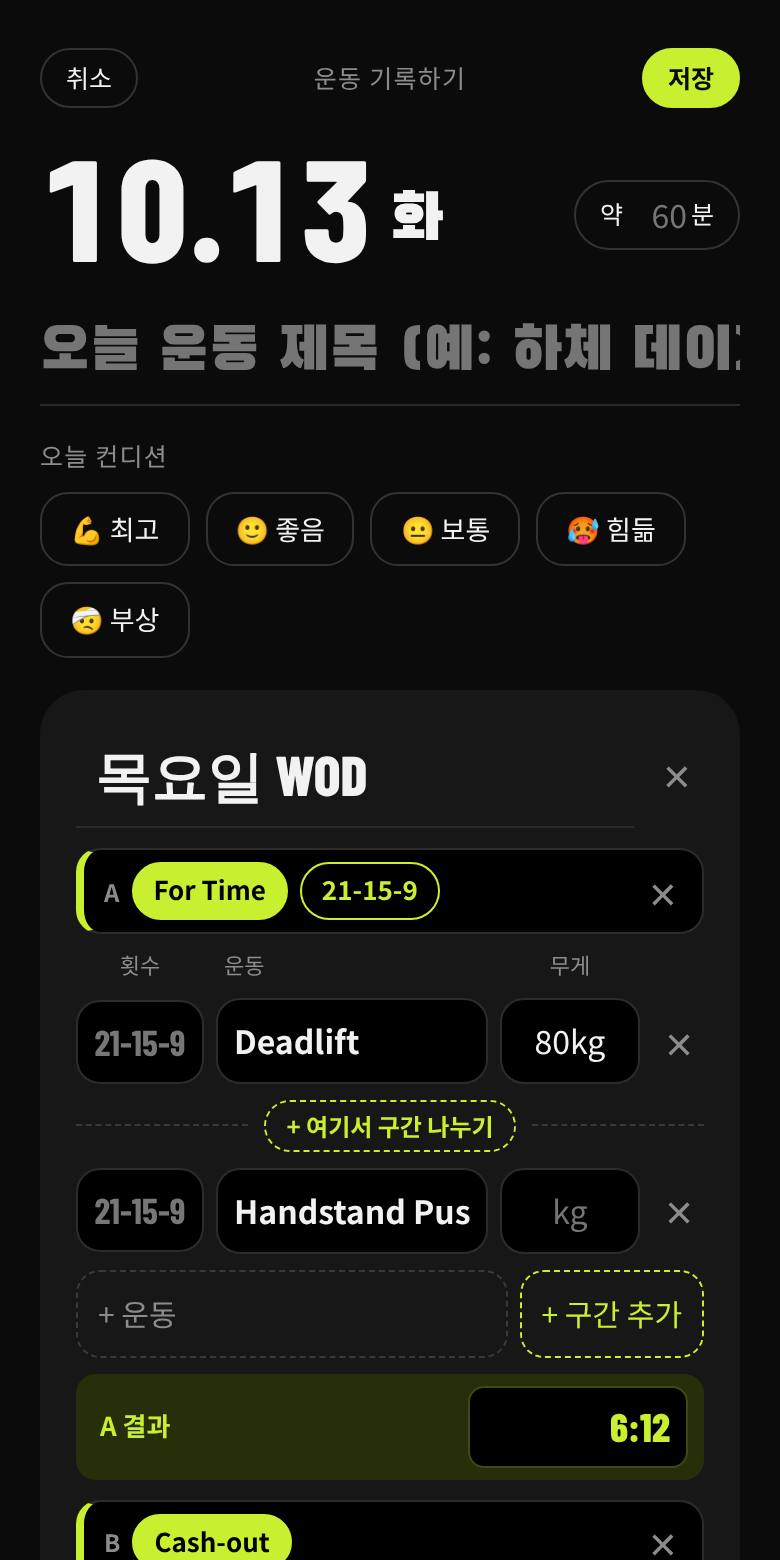
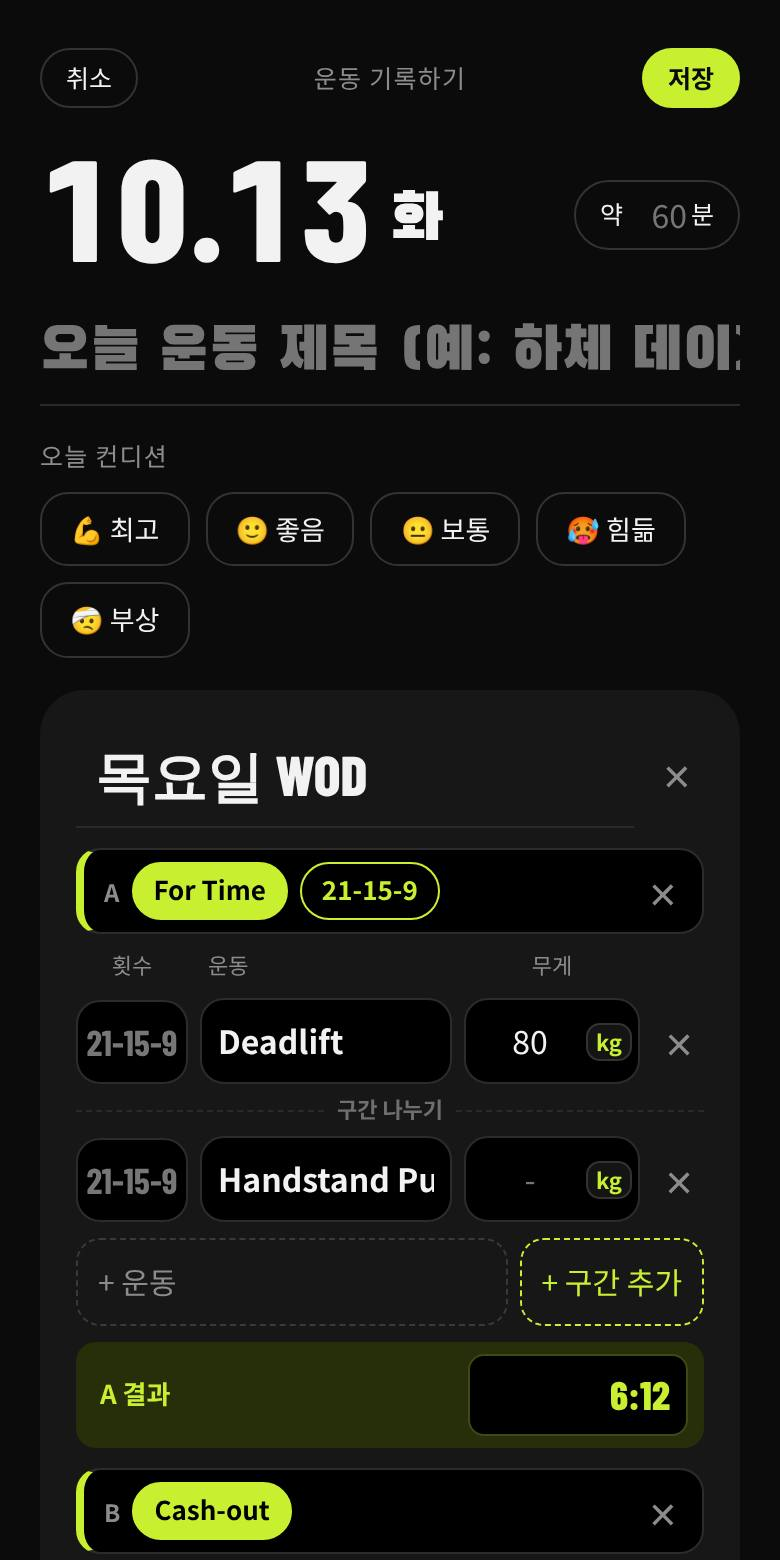
Per-exercise kg/lb switch in WOD rows
Claude-Session: https://claude.ai/code/session_019eoxjeUYsC1xCLQy9vy9QX

Changed region(s): [[0.0923, 0.6154, 0.9231, 1.0], [0.0923, 0.6154, 0.4615, 0.6769]]

diff --git a/index.html b/index.html
@@ -193,12 +193,15 @@ textarea.inp{resize:vertical;min-height:70px;line-height:1.6}
 .fdiv{display:flex;align-items:center;gap:6px;background:#000;border:1px solid #2c2c2c;border-left:4px solid var(--lime);border-radius:12px;padding:6px 6px 6px 10px}
 .fdiv .c2{padding:4px 10px;font-size:13px}
 .fdiv .t{font-size:12px;color:var(--mut);font-weight:700}
-.mv{display:grid;grid-template-columns:64px minmax(0,1fr) 70px 26px;gap:6px;align-items:center}
+.mv{display:grid;grid-template-columns:56px minmax(0,1fr) 88px 26px;gap:6px;align-items:center}
 .mv input{background:#000;border:1px solid #2c2c2c;border-radius:12px;padding:9px 8px;font-size:16px;width:100%;min-width:0;color:var(--ink)}
 .mv input.q{font-family:var(--num);font-weight:700;font-size:18px;text-align:center;padding:7px 4px}
 .mv input.q::placeholder{color:#777}
 .mv input.ex{font-weight:700}
-.mv input.w{text-align:center}
+.mv input.w{text-align:center;padding-right:30px}
+/* each WOD exercise has its own kg/lb switch inside the weight box */
+.wcell{position:relative;min-width:0}
+.wu{position:absolute;right:4px;top:50%;transform:translateY(-50%);font-size:11px;font-weight:800;color:var(--lime);background:#141414;border:1px solid #333;border-radius:7px;padding:3px 4px;line-height:1}
 .mv input:focus{border-color:var(--lime);outline:0}
 .mv.hd>div{font-size:11px;color:var(--mut);text-align:center}
 .mv.hd>div:nth-child(2){text-align:left;padding-left:4px}
@@ -334,6 +337,8 @@ const oldPat = p => p && !p.tpl ? patFrom(DEF_PATTERNS.find(t => t.id === p.kind
 /* "없음": a part with no format; the label stays empty so summaries skip it */
 const NO_FMT = {id:'none', label:'', res:'text'};
 const fmtFind = id => id === 'none' ? NO_FMT : state.formats.find(x => x.id === id);
+const wNum = w => String(w || '').replace(/\s*(kg|lb)$/i, '');
+const mvUnit = m => (String(m.w || '').match(/(kg|lb)$/i)?.[1].toLowerCase()) || m.u || U();
 const fmtCopy = f => ({id:f.id, label:f.label, res:f.res});
 const qTxt = q => /^\d+$/.test(String(q || '')) ? `${q}회` : String(q || '');
 
@@ -756,7 +761,7 @@ function partHtml(it, i, p, pi) {
     : `<div class="frame"><div class="row between"><span class="lbl">구성</span><button class="pill ${ui.frEdit ? 'lime' : ''}" style="font-size:12px;padding:3px 10px" data-action="fr-toggle">${ui.frEdit ? '완료' : '편집'}</button></div><span class="lbl" style="font-weight:500">방식</span>${fmtChips(i, pi, p)}<span class="lbl" style="font-weight:500">패턴</span>${patChips(i, pi, p)}${ui.frEdit ? '<div class="sub" style="font-size:12px">칩을 누르면 수정, ✕는 삭제예요. 칩을 꾹 누르면 순서도 바꿀 수 있어요.</div>' : ''}</div>`;
   const ord = ui.mvOrder === i, first = pi === 0, last = pi === it.parts.length - 1;
   const rows = ord ? p.moves.map((m, j) => `<div class="mvo"><span class="q">${esc(qTxt(m.q) || scheme || '')}</span><span class="t">${esc(m.n || '(빈 칸)')}</span>${m.w ? `<span class="w">${esc(m.w)}</span>` : ''}<button class="icon" data-action="mv-move" data-i="${i}" data-pi="${pi}" data-j="${j}" data-d="-1" ${first && j === 0 ? 'disabled' : ''} aria-label="${j+1}번 위로">↑</button><button class="icon" data-action="mv-move" data-i="${i}" data-pi="${pi}" data-j="${j}" data-d="1" ${last && j === p.moves.length - 1 ? 'disabled' : ''} aria-label="${j+1}번 아래로">↓</button></div>`).join('')
-    : p.moves.map((m, j) => `<div class="mv"><input class="q" data-mv="${j}" data-pi="${pi}" data-i="${i}" data-k="q" value="${esc(m.q)}" placeholder="${esc(scheme || '10')}" aria-label="${j+1}번 횟수"><input class="ex" data-mv="${j}" data-pi="${pi}" data-i="${i}" data-k="n" value="${esc(m.n)}" placeholder="운동" aria-label="${j+1}번 운동"><input class="w" data-mv="${j}" data-pi="${pi}" data-i="${i}" data-k="w" value="${esc(m.w)}" placeholder="${U()}" aria-label="${j+1}번 무게"><button class="icon" data-action="mv-del" data-i="${i}" data-pi="${pi}" data-j="${j}" aria-label="${j+1}번 운동 빼기">✕</button></div>
+    : p.moves.map((m, j) => `<div class="mv"><input class="q" data-mv="${j}" data-pi="${pi}" data-i="${i}" data-k="q" value="${esc(m.q)}" placeholder="${esc(scheme || '10')}" aria-label="${j+1}번 횟수"><input class="ex" data-mv="${j}" data-pi="${pi}" data-i="${i}" data-k="n" value="${esc(m.n)}" placeholder="운동" aria-label="${j+1}번 운동"><div class="wcell"><input class="w" data-mv="${j}" data-pi="${pi}" data-i="${i}" data-k="w" value="${esc(wNum(m.w))}" placeholder="-" aria-label="${j+1}번 무게"><button class="wu" data-action="mv-wu" data-i="${i}" data-pi="${pi}" data-j="${j}" aria-label="${j+1}번 무게 단위 바꾸기">${mvUnit(m)}</button></div><button class="icon" data-action="mv-del" data-i="${i}" data-pi="${pi}" data-j="${j}" aria-label="${j+1}번 운동 빼기">✕</button></div>
       <div class="sug" id="sug-${i}-${pi}-${j}"></div>${j < p.moves.length - 1 ? `<button class="ins" data-action="frame-insert" data-i="${i}" data-pi="${pi}" data-j="${j + 1}" aria-label="여기서 구간 나누기"><b>구간 나누기</b></button>` : ''}`).join('');
   const pres = multi ? `<div class="secres"><span>${String.fromCharCode(65 + pi)} 결과</span>${p.fmt.res === 'done' ? `<button class="mini-p ${p.res?.status === 'DONE' ? 'on' : ''}" data-action="part-done" data-i="${i}" data-pi="${pi}">DONE</button>` : resInput(`data-pres="${pi}" data-i="${i}" aria-label="${String.fromCharCode(65 + pi)} 결과"`, p.res?.v, p.fmt.res)}</div>` : '';
   return `<div class="part">${head}${ord ? '' : '<div class="mv hd"><div>횟수</div><div>운동</div><div>무게</div><div></div></div>'}${rows}
@@ -1079,12 +1084,12 @@ function openTpl(src, kind = 'mine') {
 /* a saved WOD keeps frames and exercises, not results */
 function tplFromItem(it) { return {id:it.wodId || null, name:(it.name || '').trim() || 'Daily WOD', note:'', parts:it.parts.map(p => ({fmt:{...p.fmt}, pats:pList(p).map(x => ({...x})), moves:p.moves.filter(m => m.n.trim()).map(m => ({n:m.n.trim(), exId:m.exId || null, q:(m.q || '').trim(), w:(m.w || '').trim()}))})).filter(p => p.moves.length)}; }
 /* drop empty rows; link every exercise name to the exercise list, adding new ones so they show up in search */
-const withUnit = w => { w = String(w || '').trim(); return /^[\d.]+(\/[\d.]+)?$/.test(w) ? w + U() : w; };
+const withUnit = (w, u) => { w = String(w || '').trim(); return /^[\d.]+(\/[\d.]+)?$/.test(w) ? w + (u || U()) : w; };
 function cleanWod(it, onNew) {
   const parts = it.parts.map(p => ({...p, moves:p.moves.filter(m => m.n.trim()).map(m => {
     let ex = (m.exId && exById(m.exId)?.name === m.n.trim() && exById(m.exId)) || findEx(m.n);
     if (!ex) { ex = {id:uid(), name:m.n.trim(), cat:[m.w ? 'weight' : 'body', 'etc'].find(k => state.cats.some(c => c.k === k)) || state.cats[0].k, fields:m.w ? ['w','r'] : ['r'], unit:'km'}; state.exercises.push(ex); onNew(); }
-    return {n:ex.name, exId:ex.id, q:(m.q || '').trim(), w:withUnit(m.w)}; })})).filter(p => p.moves.length || p.res?.v || p.res?.status);
+    return {n:ex.name, exId:ex.id, q:(m.q || '').trim(), w:withUnit(m.w, m.u)}; })})).filter(p => p.moves.length || p.res?.v || p.res?.status);
   if (!parts.length && !wodResult(it)) return null;
   return {...it, name:(it.name || '').trim() || 'Daily WOD', parts:parts.length ? parts : [{...it.parts[0], moves:[]}]};
 }
@@ -1144,6 +1149,8 @@ const A = {
     render(true); if (t && k < 0) document.querySelector(`[data-patv="${el.dataset.pi}"][data-pk="${p.pats.length - 1}"][data-i="${el.dataset.i}"]`)?.focus(); },
   'set-patv': el => { const p = curItems()[+el.dataset.i].parts[+el.dataset.pi]; pList(p)[+el.dataset.pk].v = el.dataset.v; render(true); },
   'mv-add': el => { const p = curItems()[+el.dataset.i].parts[+el.dataset.pi]; p.moves.push(blankMove()); render(true); const r = document.querySelectorAll(`[data-i="${el.dataset.i}"][data-pi="${el.dataset.pi}"][data-k="n"]`); r[r.length - 1]?.focus(); },
+  'mv-wu': el => { const m = curItems()[+el.dataset.i].parts[+el.dataset.pi].moves[+el.dataset.j], u = mvUnit(m) === 'kg' ? 'lb' : 'kg';
+    m.u = u; if (m.w) m.w = wNum(m.w) + u; el.textContent = u; updateSum(el.dataset.i); },
   'mv-order': el => { ui.mvOrder = ui.mvOrder === +el.dataset.i ? null : +el.dataset.i; render(true); },
   /* move one exercise up or down; past the edge of a section it moves into the next section */
   'mv-move': el => { const it = curItems()[+el.dataset.i], pi = +el.dataset.pi, j = +el.dataset.j, d = +el.dataset.d, p = it.parts[pi], m = p.moves[j];
@@ -1335,7 +1342,7 @@ document.addEventListener('input', e => {
   const t = e.target, ds = t.dataset;
   if (ds.d) { ui.draft[ds.d] = t.value; if (ds.d === 'date') { if (!t.value) ui.draft.date = TODAY(); else if (t.value > TODAY()) { ui.draft.date = TODAY(); toast('기록은 오늘까지 쓸 수 있어요'); } render(true); } return; }
   if (ds.f && ds.s !== undefined) { ui.draft.items[+ds.i].sets[+ds.s][ds.f] = t.value; return; }
-  if (ds.mv !== undefined) { const m = curItems()[+ds.i].parts[+ds.pi].moves[+ds.mv]; m[ds.k] = t.value; if (ds.k === 'n') { m.exId = null; showSug(t, ds); } return; }
+  if (ds.mv !== undefined) { const m = curItems()[+ds.i].parts[+ds.pi].moves[+ds.mv]; if (ds.k === 'w') { const u = mvUnit(m); m.w = /(kg|lb)$/i.test(t.value.trim()) ? t.value : t.value.trim() ? t.value.trim() + u : ''; m.u = u; updateSum(ds.i); return; } m[ds.k] = t.value; if (ds.k === 'n') { m.exId = null; showSug(t, ds); } return; }
   if (ds.patv !== undefined) { const p = curItems()[+ds.i].parts[+ds.patv]; pList(p)[+ds.pk].v = t.value.trim(); const sc = schemeOfP(p); document.querySelectorAll(`input.q[data-i="${ds.i}"][data-pi="${ds.patv}"]`).forEach(q => q.placeholder = sc || '10'); return; }
   if (ds.framepv !== undefined) { ui.frame.pats[+ds.framepv].v = t.value.trim(); return; }
   if (ds.wn !== undefined) { curItems()[+ds.wn].name = t.value; return; }

diff --git a/sw.js b/sw.js
@@ -1,4 +1,4 @@
-const C = 'setlog-1792165857378';
+const C = 'setlog-1792166234823';
 const CORE = ['./', 'index.html', 'manifest.webmanifest', 'icon-192.png', 'icon-512.png', 'apple-touch-icon.png', 'guide/1.jpg', 'guide/2.jpg', 'guide/3.jpg', 'guide/4.jpg', 'guide/5.jpg'];
 self.addEventListener('install', e => { e.waitUntil(caches.open(C).then(c => c.addAll(CORE)).then(() => self.skipWaiting())); });
 self.addEventListener('activate', e => { e.waitUntil(caches.keys().then(ks => Promise.all(ks.filter(k => k !== C).map(k => caches.delete(k)))).then(() => self.clients.claim())); });
